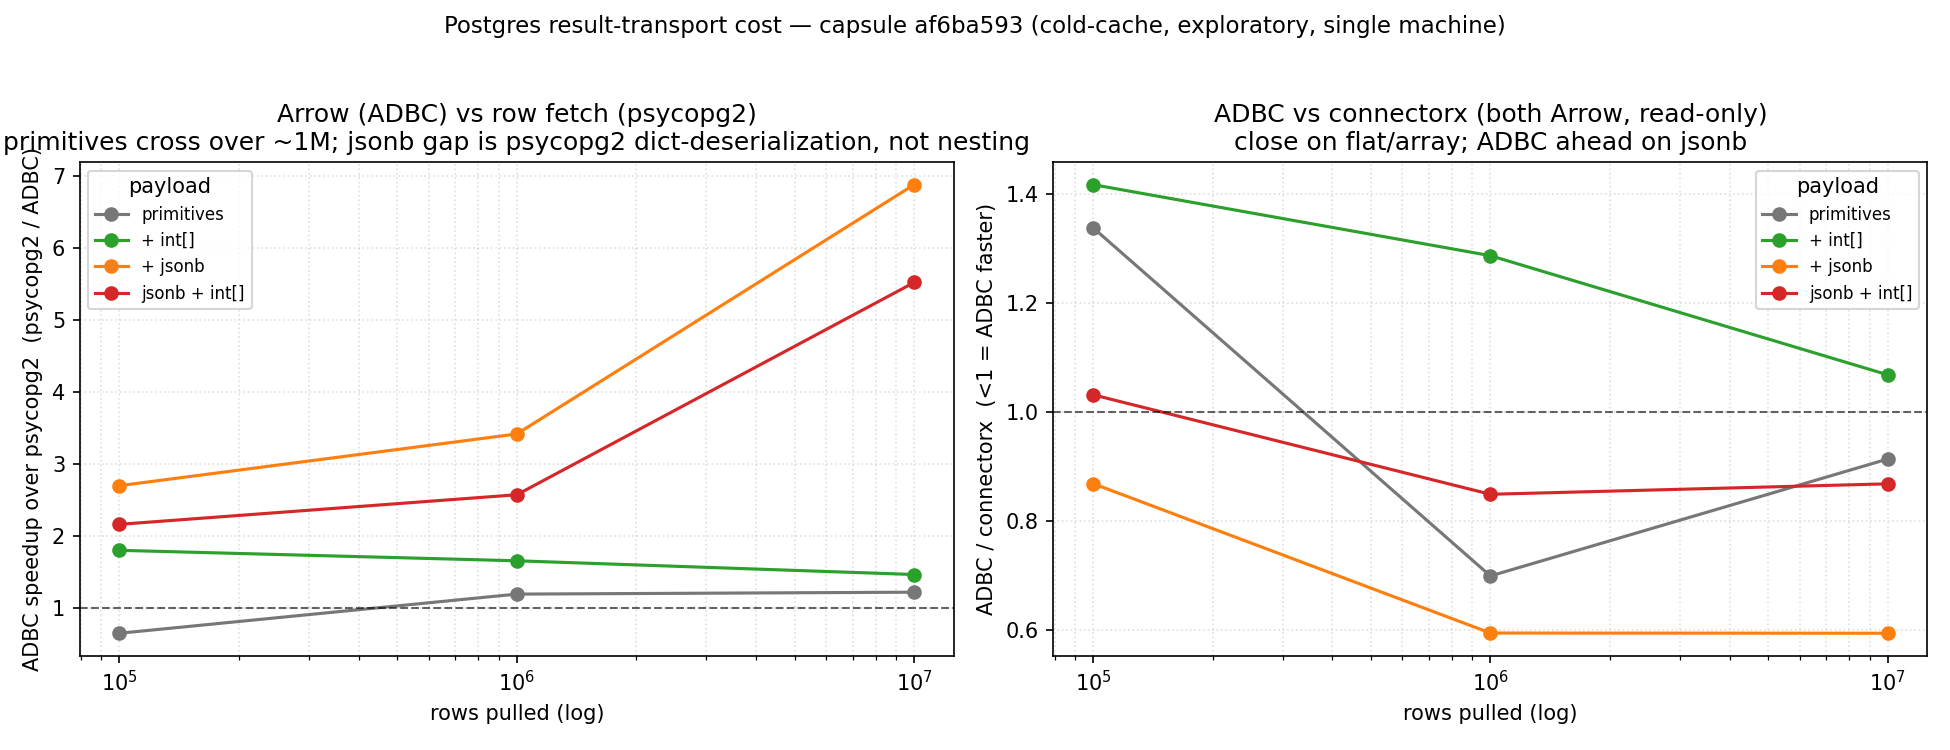
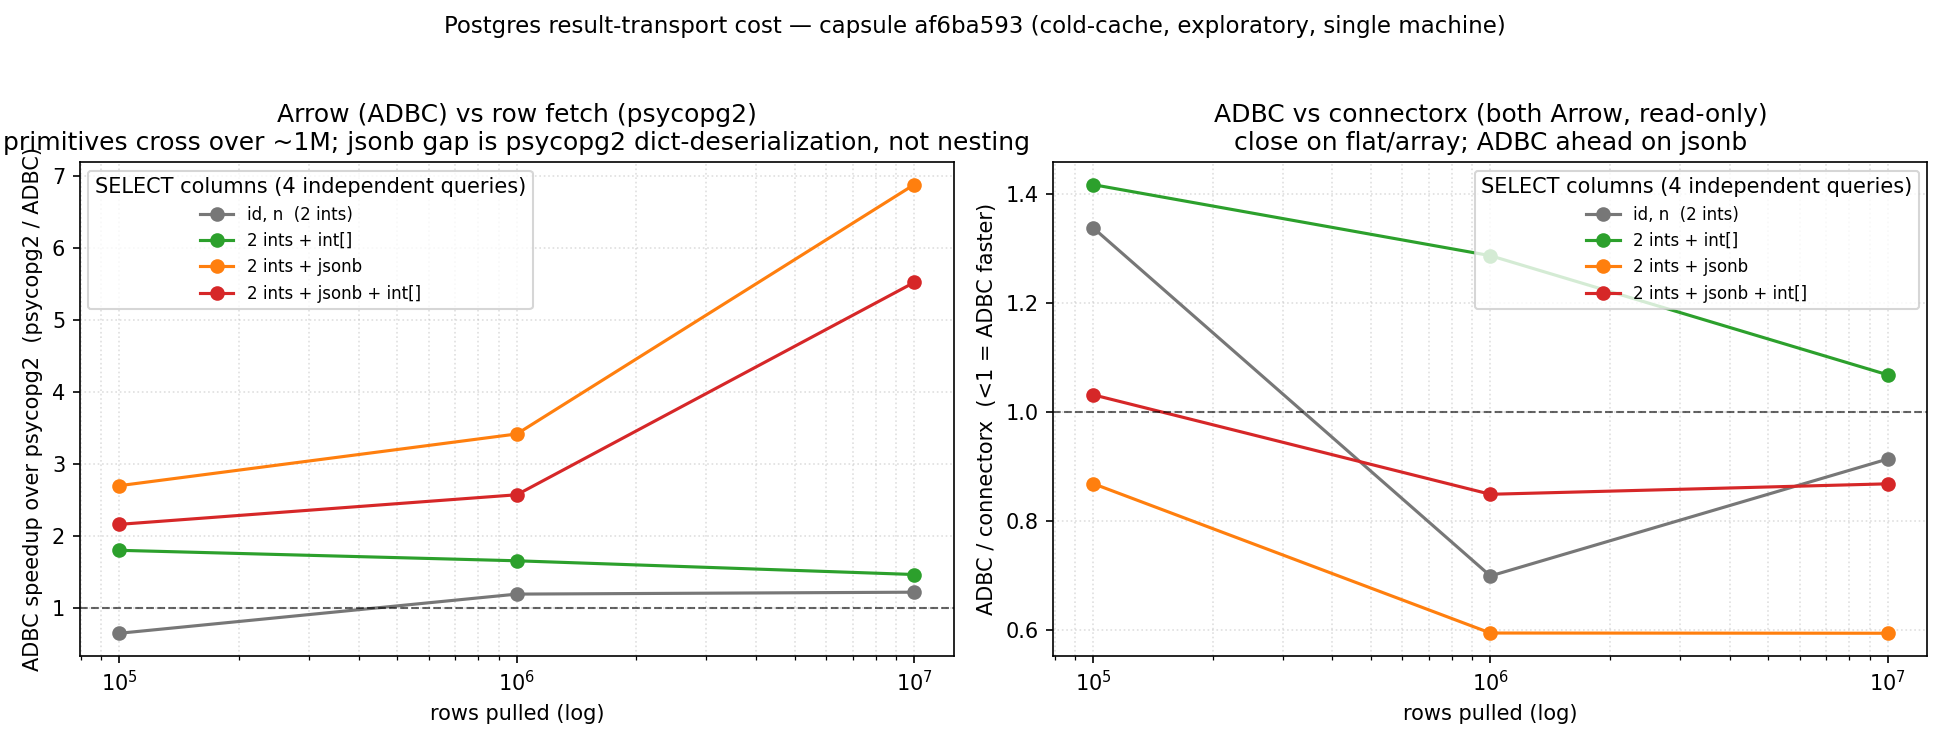
fix: unambiguous transport-figure labels (4 independent queries, not cumulative)
The '+ int[]' / '+ jsonb' labels read as a cumulative stack, implying '+ jsonb'
sat on top of int[]. It does not: the four queries are an independent 2x2 of
{int[]?} x {jsonb?} — primitives(id,n), +int[](id,n,tags), +jsonb(id,n,payload,
NO int[]), both(id,n,payload,tags). Labels now state the full column set and the
legend says '4 independent queries'. Regenerated + republished.

Changed region(s): [[0.7385, 0.2147, 0.9846, 0.4293], [0.0308, 0.2147, 0.2769, 0.4293]]

diff --git a/scripts/tools/plot_transport.py b/scripts/tools/plot_transport.py
@@ -31,12 +31,15 @@ from _plotlib import REPO_ROOT, RESULTS_DIR
 
 OUT = os.path.join(REPO_ROOT, "scratch", "figures")
 
-# payload key (from the SQL file name) -> (legend label, color)
+# payload key (from the SQL file name) -> (legend label, color).
+# Labels state the FULL column set, because these are four INDEPENDENT queries
+# (a 2x2 of {int[]?} x {jsonb?}), not a cumulative stack — "+ jsonb" contains
+# NO int[]. Ambiguous "+x" labels misread as running totals.
 PAYLOADS = {
-    "primitives": ("primitives", "#777777"),
-    "with_array": ("+ int[]", "#2ca02c"),
-    "with_jsonb": ("+ jsonb", "#ff7f0e"),
-    "nested": ("jsonb + int[]", "#d62728"),
+    "primitives": ("id, n  (2 ints)", "#777777"),
+    "with_array": ("2 ints + int[]", "#2ca02c"),
+    "with_jsonb": ("2 ints + jsonb", "#ff7f0e"),
+    "nested": ("2 ints + jsonb + int[]", "#d62728"),
 }
 
 
@@ -90,7 +93,7 @@ def plot(exp_id: str) -> None:
         ax.set_xscale("log")
         ax.set_xlabel("rows pulled (log)")
         ax.grid(True, which="both", ls=":", alpha=0.4)
-        ax.legend(title="payload", fontsize=8)
+        ax.legend(title="SELECT columns (4 independent queries)", fontsize=8)
 
     axL.axhline(1.0, color="k", ls="--", lw=1, alpha=0.6)
     axL.set_ylabel("ADBC speedup over psycopg2  (psycopg2 / ADBC)")
